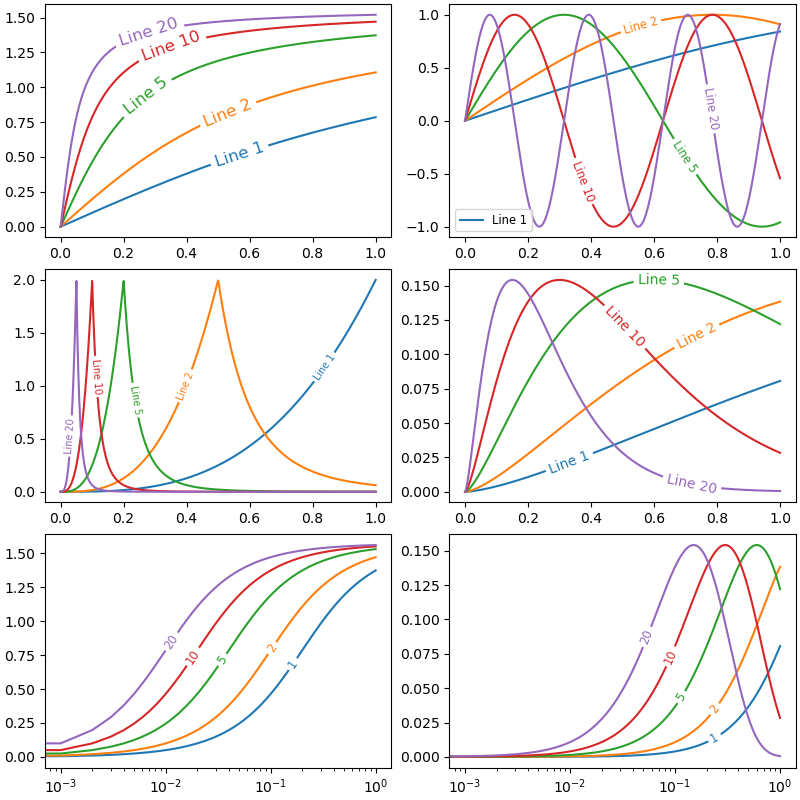
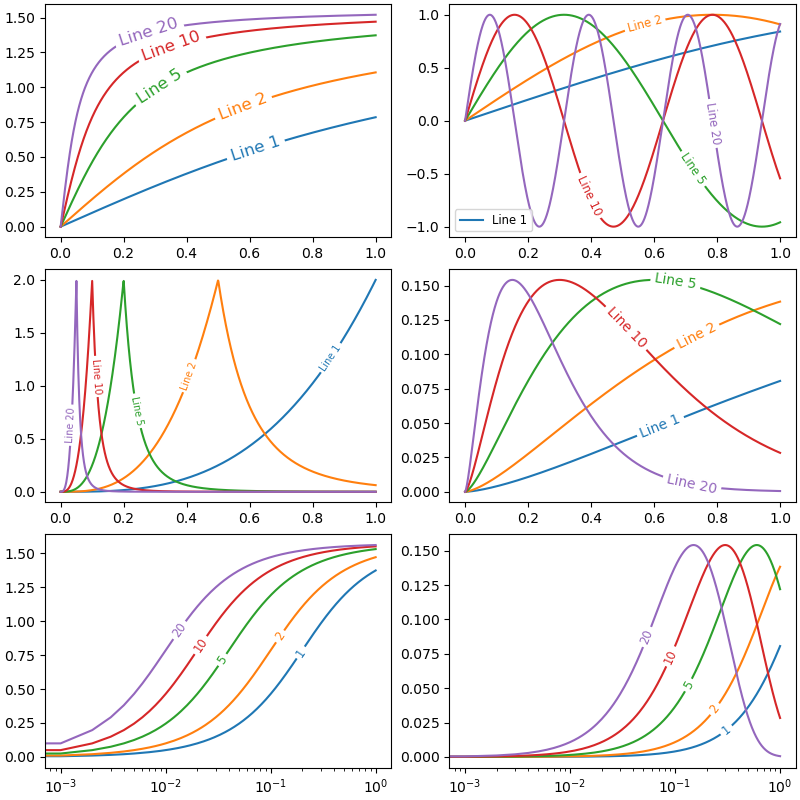
Fixed examples images for pipy 0.2.1 project page

diff --git a/examples/example.py b/examples/example.py
@@ -17,12 +17,12 @@ fig, ax = plt.subplots()
 
 for a in A:
     Y = np.sin(a * X)
-    Y[100+5*a:100+5*a*3] = np.nan
+    # Y[100+5*a:100+5*a*3] = np.nan
     ax.plot(X, Y, label=f"Line {a}")
 
 fig_debug = add_inline_labels(ax, ppf=1.5, debug=True, fontsize="small")
 
-fig_debug.savefig("example_debug.png", bbox_inches="tight") # pyright: ignore[reportOptionalMemberAccess]
+fig_debug.savefig("./example_debug.png", bbox_inches="tight") # pyright: ignore[reportOptionalMemberAccess]
 
 
 # %% Examples
@@ -31,7 +31,7 @@ axes = axes.flatten()
 
 for a in A:
     axes[0].plot(X, np.arctan(a * X), label=f"Line {a}")
-add_inline_labels(axes[0], with_overall_progress=True, fontsize="large")
+add_inline_labels(axes[0], fontsize="large")
 
 for a in A:
     axes[1].plot(X, np.sin(a * X), label=f"Line {a}")
@@ -39,13 +39,13 @@ for a in A:
     axes[3].plot(X, chi2(5).pdf(a * X), label=f"Line {a}") # pyright: ignore[reportAttributeAccessIssue]
     axes[4].semilogx(X, np.arctan(5 * a * X), label=str(a)) # pyright: ignore[reportAttributeAccessIssue]
     axes[5].semilogx(X, chi2(5).pdf(a * X), label=str(a)) # pyright: ignore[reportAttributeAccessIssue]
-add_inline_labels(axes[1], with_overall_progress=True, fontsize="small")
-add_inline_labels(axes[2], with_overall_progress=True, fontsize="x-small")
-add_inline_labels(axes[3], with_overall_progress=True, fontsize="medium")
-add_inline_labels(axes[4], with_overall_progress=True, fontsize="small")
-add_inline_labels(axes[5], with_overall_progress=True, fontsize="small")
+add_inline_labels(axes[1], fontsize="small")
+add_inline_labels(axes[2], fontsize="x-small")
+add_inline_labels(axes[3], fontsize="medium")
+add_inline_labels(axes[4], fontsize="small")
+add_inline_labels(axes[5], fontsize="small")
 
-fig.savefig("example.png")
+fig.savefig("./example.png")
 
 
 # %%

diff --git a/tests/visual_unitary_tests.py b/tests/visual_unitary_tests.py
@@ -40,9 +40,7 @@ for a in A:
     if a == 20:
         # Cut at 90 for testing no radius lowering option available case
         # Cut at 100 for testing radius lowering option available case
-        Y[90:-1] = (
-            np.nan
-        )  
+        Y[90:-1] = np.nan
     ax.plot(X, Y, label=f"T{a}")
 
 fig_debug = add_inline_labels(
@@ -236,7 +234,6 @@ add_inline_labels(axes[3], with_overall_progress=True, debug=True, fontsize="med
 add_inline_labels(axes[4], with_overall_progress=True, debug=True, fontsize="small")
 add_inline_labels(axes[5], with_overall_progress=True, debug=True, fontsize="small")
 
-fig
 
 # %% Profiling
 fig, ax = plt.subplots()
